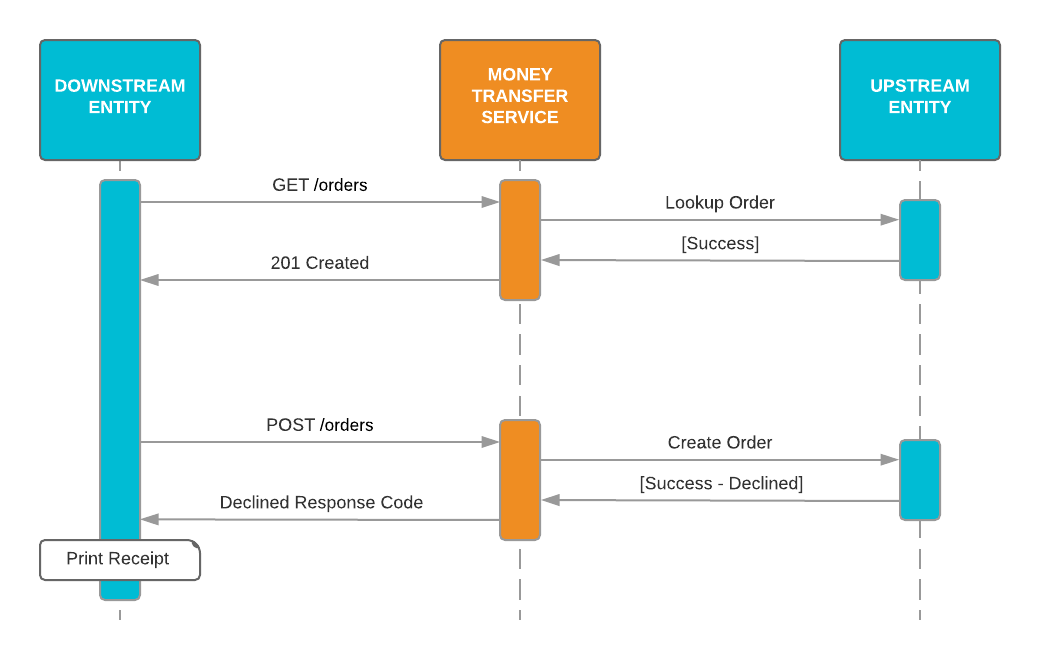
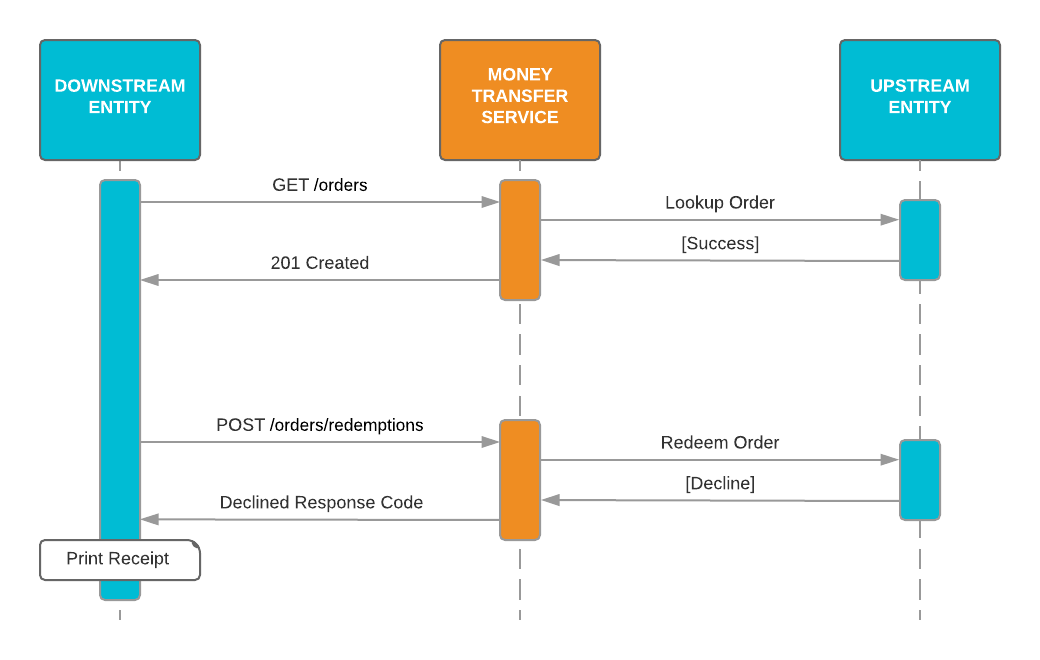
Document review changes

Changed region(s): [[0.2154, 0.6364, 0.4, 0.6667], [0.6154, 0.7273, 0.7692, 0.7576], [0.6462, 0.6364, 0.7385, 0.697]]

diff --git a/src/docs/devguide/hugo/site/content/transaction-flows.md b/src/docs/devguide/hugo/site/content/transaction-flows.md
@@ -7,7 +7,7 @@ menu:
 
 This section depicts some transaction flows. It is not an exhaustive list of all conceivable flows, but does attempt to illustrate typical scenarios.
 
-When developing a client implementation of the Money Transfer Retailer Interface, Electrum hosts the money transfer retailer service and assumes the role of the server. The implementor is then responsible for initiating the money transfer retailer service requests and processing the responses received from Electrum. When developing a server implementation, Electrum assumes the role of the client. The implementor is then responsible for servicing the money transfer retailer service requests sent by Electrum and generating appropriate responses.
+When developing a client implementation of the Money Transfer Retailer Interface, Electrum hosts the Money Transfer Retailer Service and assumes the role of the server. The implementor is then responsible for initiating the Money Transfer Retailer Service requests and processing the responses received from Electrum. When developing a server implementation, Electrum assumes the role of the client. The implementor is then responsible for servicing the Money Transfer Retailer Service requests sent by Electrum and generating appropriate responses.
 
 ## Request vs Advice Messages
 
@@ -17,18 +17,15 @@ Reversals are an example of an advice type message. Advice type messages inform 
 
 In order to maintain system consistency, it is important that all advice messages are queued in persistent storage on the money transfer retailer service client implementation and repeated until an acknowledgement of receipt is received from the Money Transfer Retailer Service server implementation. This process is commonly referred to as [store-and-forward](/protocol-basics/#store-and-forward).
 
-# Admin Transactions
+# Admin Operations
 
-Admin transactions are always processed as request type messages, and should be considered complete only on receipt of a corresponding response (be it an approval or a decline). Admin transactions should thus be re-sent by the downstream party until a response is received.
-
-Admin transactions are optional, and have no financial impact for either the downstream or upstream entities. They are also not required to be followed by a financial transaction.
-
+Admin operations are always processed as request type messages, and should be considered complete only on receipt of a corresponding response (be it an approval or a decline). Admin operations have no financial impact and are not automatically retied if no response is received thus the downstream party should re-send the request until a response is received. They are also not required to be followed by a financial transaction.
 
 ## Get Customer Info
 
 A Get Customer Info request retrieves customer information.
 
-### Successful Get Customer Info transaction
+### Successful Get Customer Info Operation
 
 The sequence diagram below shows a successful Get Customer Info operation. The response contains information regarding the customer.
 
@@ -36,47 +33,47 @@ Please note that a decline (which will occur in cases such as where the requeste
 
 ![Successful Get Customer Info](/images/sequence-successful-get-customer-info.png "Successful Get Customer Info")
 
-### Get Customer Info not supported
+### Get Customer Info Not Supported
 
 If the Get Customer Info call is not supported by the upstream entity, this call will return a 501 (Not Implemented) status code.
 
 ![Get Customer Info Not Supported](/images/sequence-not-supported-get-customer-info.png "Get Customer Info Not Supported")
 
-## Create Or Update Customer
+## Create or Update Customer
 
-A Create Or Update Customer call will create a new or update an existing customer with the provided information.
+A Create or Update Customer call will create a new or update an existing customer with the provided information.
 
-### Successful Create Or Update Customer transaction
+### Successful Create or Update Customer Operation
 
 The sequence diagram below shows a successful createOrUpdateCustomer operation. The response contains information regarding the success of the requested operation.
 
-![Successful Create Or Update Customer](/images/sequence-successful-create-or-update-customer.png "Successful Create Or Update Customer")
+![Successful Create or Update Customer](/images/sequence-successful-create-or-update-customer.png "Successful Create or Update Customer")
 
-### Create Or Update Customer not supported
+### Create or Update Customer Not Supported
 
-If the Create Or Update Customer call is not supported by the upstream entity, this call will return a 501 (Not Implemented) status code.
+If the Create or Update Customer call is not supported by the upstream entity, this call will return a 501 (Not Implemented) status code.
 
-![Create Or Update Customer Not Supported](/images/sequence-not-supported-create-or-update-customer.png "Create Or Update Customer Not Supported")
+![Create or Update Customer Not Supported](/images/sequence-not-supported-create-or-update-customer.png "Create or Update Customer Not Supported")
 
 ## Fee Quote
 
 A fee quote is used to query the amount the customer will be charged for the transfer. This lookup is typically done before the an order is created. The customer can choose whether the amount they have given is inclusive of the fee or not.
 
-The below diagram depicts the typical usage of feeQuote when it is successful. If the request is not implemented a `501` HTTP status code will be sent back to the downstream entity.
+The below diagram depicts the typical usage of feeQuote when it is successful. If the request is not implemented a 501 (Not Implemented) status code will be sent back to the downstream entity.
 
-![Successful Fee Quote](/images/sequence-successful-get-fee-quote.png "Successful Customer Fee Quote")
+![Successful Fee Quote](/images/sequence-successful-get-fee-quote.png "Successful Fee Quote")
 
 # Financial Transactions
 
 Financial transactions are so named because they have a financial impact. They will always consist of (at least) a request leg, followed by a confirmation / reversal leg to advise on the completion or failure of the transaction. This kind of flow is commonly referred to as "dual messaging", since the confirmation is always required, even for positive completions.
 
-In some cases (such as with a [Redeem Order](/transaction-flows/#redeem-order)) an initial lookup message is also required as part of the flow.
+In some cases (such as with a [Redeem Order](/transaction-flows/#redeem-order)) an initial lookup message is also suggested as part of the flow.
 
 In order to maintain system consistency, it is important that all advice messages are queued in persistent storage and repeated until a _final_ response is received from the service. Refer to the section on [store-and-forward](/protocol-basics/#store-and-forward) for more details.
 
 ## Create Order
 
-A Create Order operation will open an order in the upstream entity's system which may be redeemed at a later stage. An Order should not be considered redeemable until such time tender has been taken and the confirmation has been successfully processed.
+A Create Order operation will open an order in the upstream entity's system which may be redeemed at a later stage. An order should not be considered redeemable until such time tender has been taken and the confirmation has been successfully processed.
 
 ### Successful Create Order
 
@@ -96,27 +93,35 @@ In this case, the initial request from the downstream entity is processed and th
 
 ### Reversed Create Order
 
-The below diagram depicts the flow both a cancellation and a timeout reversal.
+The below diagram depicts the flow for both a cancellation and a timeout reversal.
 
-A Cancellation is a manual process that occurs when the downstream entity initiates a reversal despite receiving a successful response to their original request. A Timeout is an automatic process that occurs when the Money Transfer Service does not receive a response to the request in the configured time limit. The Money Transfer Service will notify both the downstream and upstream entities that the transaction was not completed.
+A Cancellation is a manual process that occurs when the downstream entity initiates a reversal despite receiving a successful response to their original request. A timeout is an automatic process that occurs when the Money Transfer Retailer Service does not receive a response to the request in the configured time limit. The Money Transfer Retailer Service will notify both the downstream and upstream entities that the transaction was not completed.
 
-A Reversal must be processed before the downstream entity may re-attempt the order creation.
+A Reversal may take time to be processed, the customer could exceed account limits if the reversal has not yet been processed and the downstream entity may re-attempts the order creation.
 
 ![Reversed Create Order](/images/sequence-reversed-create-order.png "Reversed Create Order")
 
-## Redeem Order
+### Timeout Create Order
 
-A Redeem Order is used when a recipient attempts to retrieve the order that the sender deposited. In a typical Redeem flow, a lookup is used, followed by a dual-message Redemption. The lookup is not necessary, but usefully serves as a validation step to ensure the recipient has the correct details, and their requested Order exists on the upstream entity. A lookup has no effect on the upstream entity, and can thus be performed multiple times for the same order without issue.
+The below diagram depicts the flow of a Create Order response getting lost and the transaction timing out. The diagram further shows the flow of the timeout reversal and the downstream entity retrying the Create Order transaction.
 
-The effect of the Redeem Order operation is that the Order will be marked as redeemed on the upstream entity's system, and the downstream entity will be required to hand the recipient the payable amount.
+![Timeout Create Order](/images/sequence-timeout-create-order.png "Timeout Create Order")
 
-### Successful Lookup and Successful Redeem
+## Lookup Order
 
-The below diagram depicts the normal flow of a Redeem Order operation.
+A Lookup Order is used to get the order details of an existing unredeemed order with the upstream entity. A lookup has no effect on the upstream entity, and can thus be performed multiple times for the same order without issue.
 
-Initially, the downstream entity sends a lookup which returns a positive response. The downstream entity then initiates a Redemption, which consists of both a Redeem Order and Confirm Redeem.
+### Successful Lookup Order
 
-![Successful Lookup and Successful Redeem](/images/sequence-successful-redeem-order.png "Successful Lookup and Successful Redeem")
+The below diagram depicts the flow when for a Lookup Order completes successfully.
+
+![Lookup Order Successful](/images/sequence-successful-lookup-order.png "Lookup Order")
+
+### Initial Lookup Order Fail
+
+The below diagram depicts the flow when the initial lookup does not complete, but the following attempt is successful. Please note that the lookup failure may occur multiple times - the downstream entity should repeat the action until such time that a successful response (positive or negative) is received.
+
+![Initial Lookup Order Fail](/images/sequence-initial-lookup-fail-order.png "Initial Lookup Order Fail")
 
 ### Declined Lookup Order
 
@@ -124,20 +129,32 @@ The below diagram depicts the flow when the lookup step successfully completes, 
 
 ![Declined Lookup Order](/images/sequence-declined-lookup-order.png "Declined Lookup Order")
 
-### Initial Lookup Fail
+## Redeem Order
 
-The below diagram depicts the flow when the initial lookup does not complete, but the following attempt is successful, followed by a Redeem operation. Please note that the Lookup failure may occur multiple times - the downstream entity should repeat the action until such time that a successful response (positive or negative) is received.
+A Redeem Order is used when a recipient attempts to retrieve the order that the sender deposited. In a typical Redeem Order flow, a Lookup Order is used, followed by a dual-message redemption. The lookup is not necessary, but usefully serves as a validation step to ensure the recipient has the correct details, and their requested order exists on the upstream entity.
 
-![Initial Lookup Order Fail](/images/sequence-initial-lookup-fail-successful-redeem-order.png "Initial Lookup Order Fail")
+The effect of the Redeem Order operation is that the order will be marked as redeemed on the upstream entity's system, and the downstream entity will be required to hand the recipient the payable amount.
 
-### Successful Lookup and Declined Redeem
+### Successful Redeem
 
-The below diagram depicts the flow when the lookup is successful but the initial Redeem request receives a negative response.
+The below diagram depicts the normal flow of a redemption operation, which consists of both a Redeem Order and Confirm Redeem.
 
-![Successful Lookup and Declined Redeem](/images/sequence-declined-redeem-order.png "Successful Lookup and Declined Redeem")
+![Successful Redeem](/images/sequence-successful-redeem-order.png "Successful Redeem")
 
-### Successful Lookup and Reversed Redeem
+### Declined Redeem
 
-The below diagrams depict the case where a negative advice (Reversal) is sent from the downstream entity to ensure that the previously requested redeem is not confirmed. As with a [Reversed Create Order](/transaction-flows/#reversed-create-order), both an automatic (timeout) and manual (cancellation) reversal are shown.
+The below diagram depicts the flow when the Redeem Order request receives a negative response.
 
-![Successful Lookup and Reversed Redeem](/images/sequence-reversed-redeem-order.png "Successful Lookup and Reversed Redeem")
+![Declined Redeem](/images/sequence-declined-redeem-order.png "Declined Redeem")
+
+### Reversed Redeem
+
+The below diagram depicts the case where a negative advice (Reversal) is sent from the downstream entity to ensure that the previously requested redeem is not confirmed. As with a [Reversed Create Order](/transaction-flows/#reversed-create-order), both an automatic (timeout) and manual (cancellation) reversal are shown.
+
+![Reversed Redeem](/images/sequence-reversed-redeem-order.png "Reversed Redeem")
+
+### Timeout Redeem
+
+The below diagram depicts a timeout scenario when a Redeem Order request times out, then the redemption is reversed and retry of the redemption is tried.
+
+![Timeout Redeem](/images/sequence-timeout-redeem-order.png "Timeout Redeem")

diff --git a/src/docs/devguide/hugo/site/content/release-notes.md b/src/docs/devguide/hugo/site/content/release-notes.md
@@ -12,10 +12,11 @@ Released 3 May 2018
   - UNKNOWN
 - Added new fields to the following messages:
   - Added `recipientDetails` to `MoneyTransferRedeemRequest`, optional field
-  - Added `EncryptedPin` to `MoneyTransferAuthRequest` and `MoneyTransferRedeemRequest` and removed `pinBlock` field
   - Added `idType` and `idCountryCode` to the query parameters of `getCustomerInfoCall`
+  - Added `idType` to the PersonalDetails object
 - The following fields have been updated:
-  - Added Expired to `Status` enum of a `MoneyTransferLookupResponse`
+  - Simple `pinBlock` String field in `MoneyTransferAuthRequest` and `MoneyTransferRedeemRequest` has been replaced with a complex `EncryptedPin` object. The simple `pinBlock` field now resides in the `EncryptedPin` object.
+  - Added `EXPIRED` to `Status` enum of a `MoneyTransferLookupResponse`
   - Added `idCountryCode` to `PersonalDetails`
 
 ## v1.0.1

diff --git a/README.md b/README.md
@@ -11,12 +11,18 @@ To include the service interface into your maven project, include the below depe
 ```xml
 <dependency>
     <groupId>io.electrum</groupId>
-    <artifactId>money-transfer-service-interface</artifactId>
+    <artifactId>money-transfer-retailer-interface</artifactId>
     <version>2.0.0</version>
+</dependency>
+<dependency>
+  <groupId>io.electrum</groupId>
+  <artifactId>service-interface-base</artifactId>
+  <version>3.9.0</version>
+  <scope>provided</scope>
 </dependency>
 ```
 
-Alternatively, you can download the jar from [Bintray](https://bintray.com/electrumpayments/java-open-source/money-transfer-service-interface).
+Alternatively, you can download the jar from [Bintray](https://bintray.com/electrumpayments/java-open-source/money-transfer-retailer-interface).
 
 ## Other languages
 
